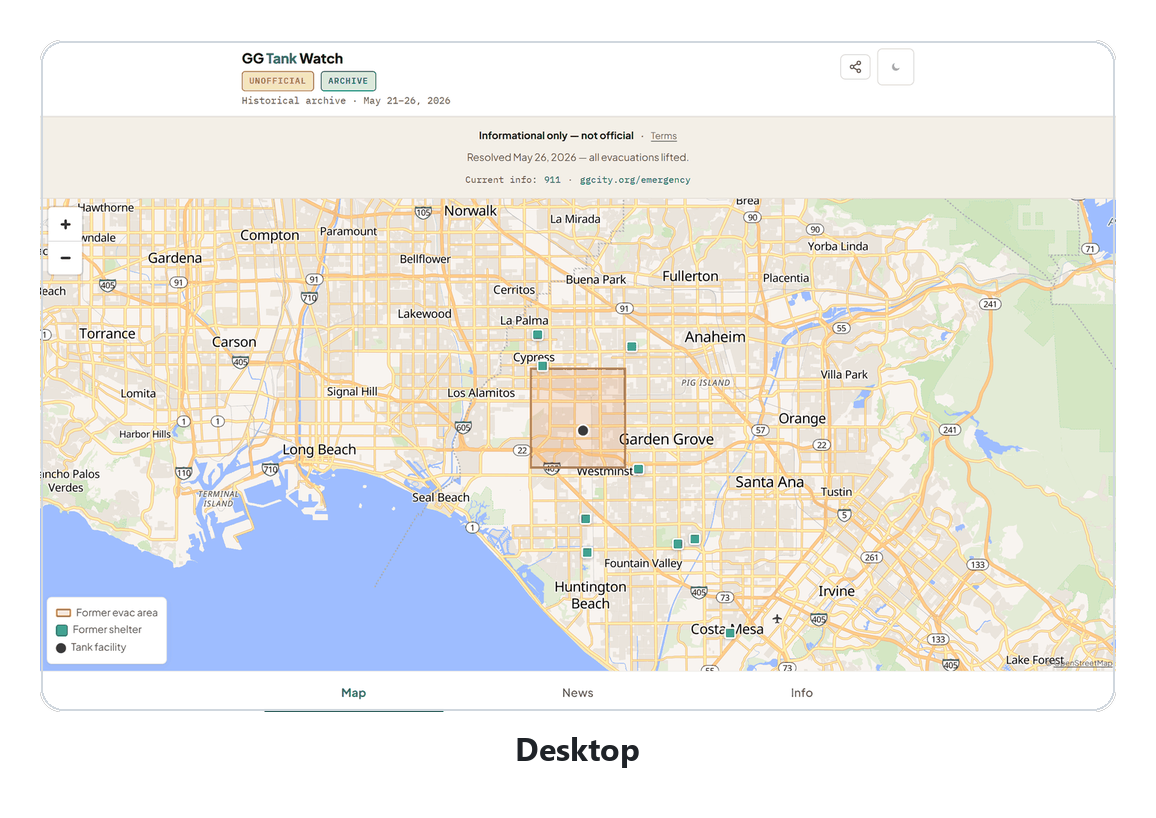
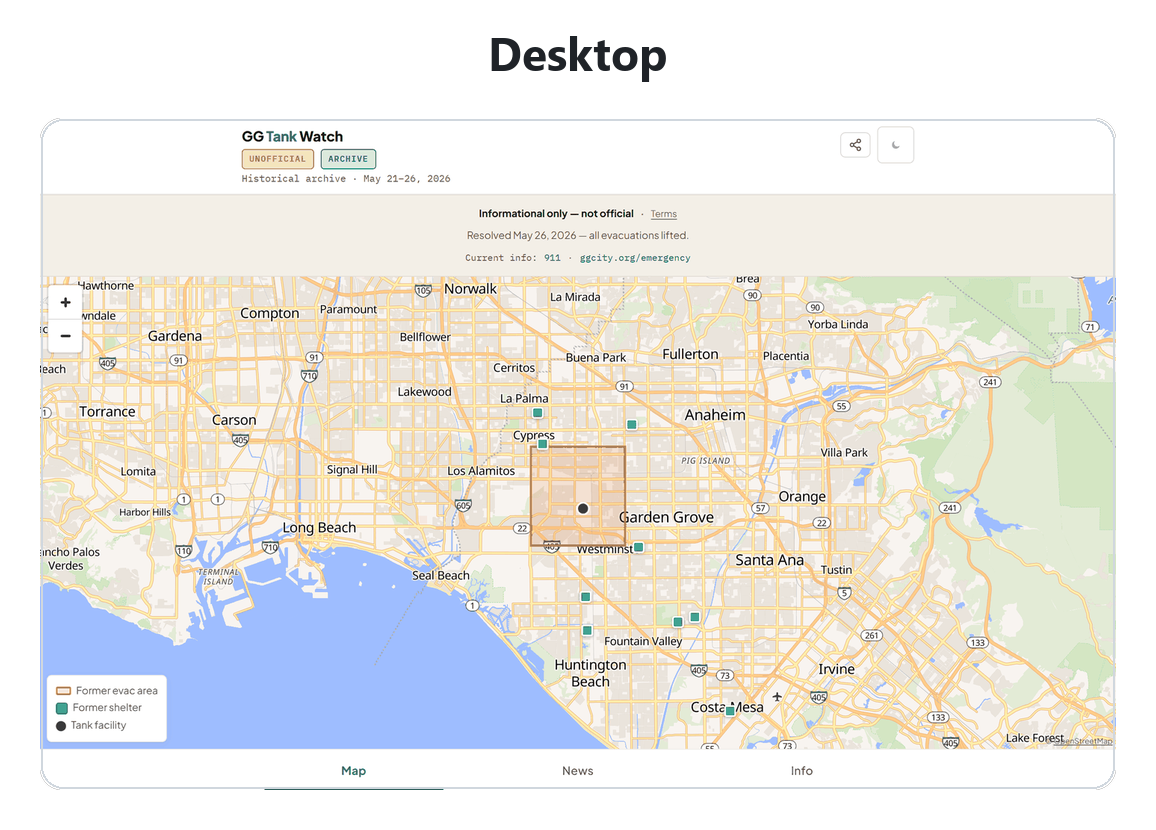
docs(readme): split previews into Desktop and Mobile sections, full phone shots
Restructure the preview gallery into two labeled sections:
- "Desktop": the bordered hero, section title baked in, no per-image caption.
- "Mobile": a 2x2 of the full, uncropped 780x1688 phone screenshots (from
  glowup/shots) with feature captions, replacing the old 780x1080 top-crops
  that cut off content and the bottom Map/News/Info nav.

Section titles are baked into the images for consistent hierarchy. The four
docs/assets/preview-{mobile,news,info,map-dark}.png crops are now unused.
Full eval suite 211/211.

diff --git a/README.md b/README.md
@@ -21,7 +21,7 @@
 </p>
 
 <p align="center">
-  <a href="https://ggtankwatch.org"><img src="docs/assets/preview-grid.png" alt="App preview grid: the Map view of the former evacuation zone across Orange County, the Coverage Archive listing every source badged and dated, the What happened tab of sourced incident facts, and the Map in dark mode." width="840"></a>
+  <a href="https://ggtankwatch.org"><img src="docs/assets/preview-grid.png" alt="Mobile views of GG Tank Watch: the Map, the Coverage Archive listing every source badged and dated, the What happened tab of sourced incident facts, and the Map in dark mode." width="840"></a>
 </p>
 
 ## Contents